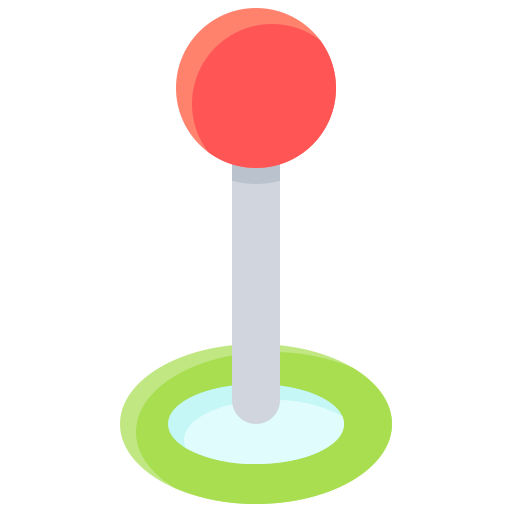
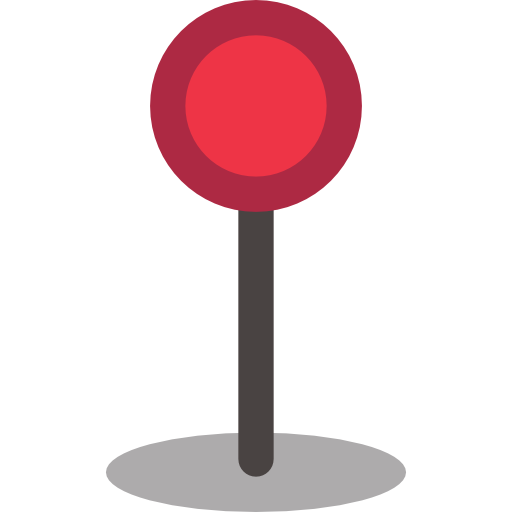
new look for the map

diff --git a/Crashboard_draft/main.js b/Crashboard_draft/main.js
@@ -92,6 +92,8 @@ function load_map(json_data) {
     cities= center_data.cities
     len=cities.length;
     
+    
+    
    
     if (WARNING_SHOWN == true) {
       var countryIcon = L.icon({
@@ -101,25 +103,31 @@ function load_map(json_data) {
          
     },{
       attribution:
-      '<div>Icons made by <a href="https://www.flaticon.com/authors/icongeek26" title="Icongeek26">Icongeek26</a> from <a href="https://www.flaticon.com/" title="Flaticon">www.flaticon.com</a></div>',
+      '<div>Icons made by <a href="https://www.flaticon.com/authors/smashicons" title="Smashicons">Smashicons</a> from <a href="https://www.flaticon.com/" title="Flaticon">www.flaticon.com</a></div>',
     });
 
     var cityIcon = L.icon({
       iconUrl: 'city.png',
   
-      iconSize:     [50, 50], 
+      iconSize:     [30, 30], 
   },{
     attribution:
-    '<div>Icons made by <a href="https://www.flaticon.com/authors/aranagraphics" title="Aranagraphics">Aranagraphics</a> from <a href="https://www.flaticon.com/" title="Flaticon">www.flaticon.com</a></div>',
+    '<div>Icons made by <a href="" title="turkkub">turkkub</a> from <a href="https://www.flaticon.com/" title="Flaticon">www.flaticon.com</a></div>',
   });
 
+      
+  location1 = center_data.full_name+"("+center_data.code_name+")";
+
       var marker = L.marker([lat1, long1],{icon: countryIcon}).addTo(map)
-      .bindPopup(center_data.full_name+"("+center_data.code_name+")");
+      .bindPopup(location1);
       //.openPopup();
 
+      
+
       for(var i=0;i<len;i++){
+        location2 = cities[i].full_name+"("+cities[i].code_name+")";
         var citymarker = L.marker([cities[i].coords.lat, cities[i].coords.long],{icon: cityIcon}).addTo(map)
-      .bindPopup(cities[i].full_name+"("+cities[i].code_name+")");
+      .bindPopup(location2);
       }
 
     }
